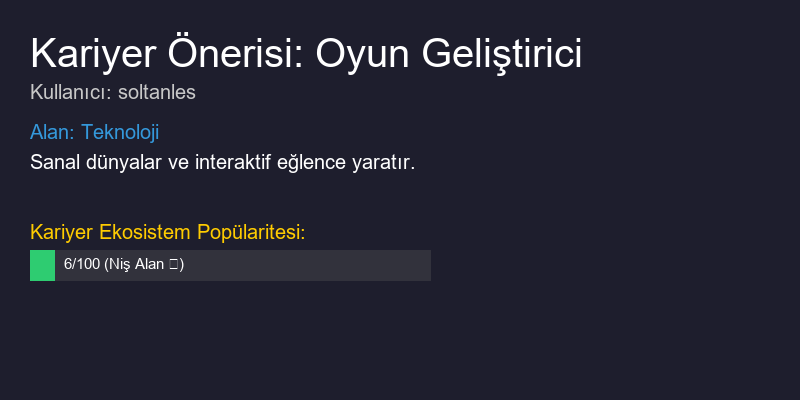
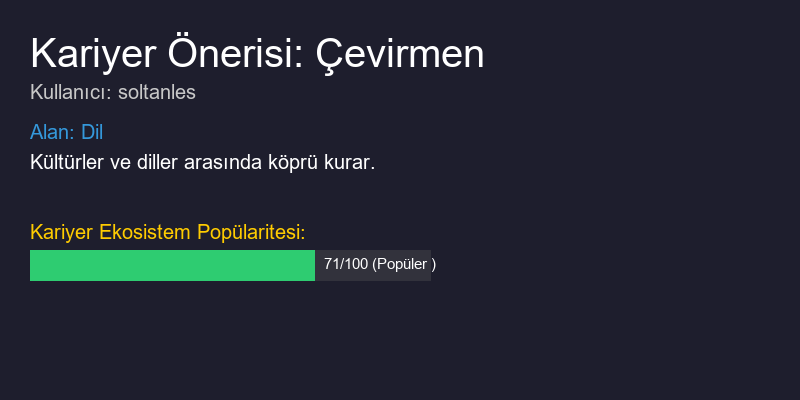
Undecive

diff --git a/modules/ui_components.py b/modules/ui_components.py
@@ -49,7 +49,7 @@ class CareerQuizView(View):
             progress = f"({self.current_step + 1}/{len(self.questions)})"
             
             btn_yes = Button(label="Evet", style=discord.ButtonStyle.green, custom_id="yes")
-            btn_maybe = Button(label="Kısmen", style=discord.ButtonStyle.secondary, custom_id="maybe")
+            btn_maybe = Button(label="🟡 Kısmen", style=discord.ButtonStyle.primary, custom_id="maybe")
             btn_no = Button(label="Hayır", style=discord.ButtonStyle.danger, custom_id="no")
             
             # Bu butonların ait olduğu adım (step)
@@ -100,24 +100,40 @@ class CareerQuizView(View):
         # 1. DB Güncelle (Normalize edilmiş puanlarla)
         self.db.update_user_scores(self.user_id, self.username, normalized_scores)
         
-        # 2. En iyi mesleği bul
+        # 2. En iyi 3 mesleği bul (yüzdelerle birlikte)
         careers = self.db.get_all_careers()
-        best_match = self.calculator.calculate_best_career(normalized_scores, careers)
+        from modules.calculator import calculate_top_careers
+        top_matches = calculate_top_careers(normalized_scores, careers, top_n=3)
+        
+        # En iyi eşleşme (rapor ve kart için)
+        best_match = top_matches[0]['career'] if top_matches else None
+        best_percentage = top_matches[0]['match_percentage'] if top_matches else 0
         
         # 3. Rapor oluştur
         report_path = self.reporter.generate_report(self.username, normalized_scores, best_match)
         
-        # 4. [YENİ] Görsel Kart Oluştur
+        # 4. Görsel Kart Oluştur
         from modules.visualizer import CareerVisualizer
         viz = CareerVisualizer()
         card_path = viz.create_career_card(self.username, best_match, normalized_scores)
         
         # 5. Sonuçları gönder
         embed = discord.Embed(title=f"🎉 Tebrikler {self.username}!", color=0x3498db)
-        embed.description = "Analiz tamamlandı! İşte sonuçların:"
+        embed.description = "Analiz tamamlandı! İşte sana en uygun 3 meslek:"
         
-        embed.add_field(name="Sana En Uygun Meslek", value=f"**{best_match['title']}**", inline=False)
-        embed.add_field(name="Tanım", value=best_match['description'], inline=False)
+        # Top 3 meslekleri göster
+        medals = ["🥇", "🥈", "🥉"]
+        top_careers_text = ""
+        for i, match in enumerate(top_matches):
+            career = match['career']
+            percentage = match['match_percentage']
+            medal = medals[i] if i < len(medals) else "•"
+            top_careers_text += f"{medal} **{career['title']}** - %{percentage} uyum\n"
+        
+        embed.add_field(name="📊 Kariyer Eşleşmelerin", value=top_careers_text, inline=False)
+        
+        # En iyi mesleğin detayı
+        embed.add_field(name=f"🎯 1. Tercih: {best_match['title']}", value=best_match['description'], inline=False)
         
         # Puanları da gösterelim
         scores_text = (
@@ -125,7 +141,7 @@ class CareerQuizView(View):
             f"**Sosyal:** {normalized_scores['sosyal']}/10\n"
             f"**Yaratıcılık:** {normalized_scores['yaraticilik']}/10"
         )
-        embed.add_field(name="Kişilik Analizin", value=scores_text, inline=False)
+        embed.add_field(name="🧠 Kişilik Analizin", value=scores_text, inline=False)
         
         embed.set_image(url=f"attachment://card_{self.username}.png")
         embed.set_footer(text="Detaylı rapor ve görsel analiz ekte! 👇")
@@ -135,3 +151,4 @@ class CareerQuizView(View):
         
         await interaction.followup.send(embed=embed, files=[file_report, file_card])
         self.stop()
+

diff --git a/modules/calculator.py b/modules/calculator.py
@@ -1,34 +1,62 @@
 import math
 
-def calculate_best_career(user_scores, all_careers):
-    """
-    Kullanıcı puanları ile meslek puanları arasındaki en yakın eşleşmeyi bulur.
-    Öklid mesafesi (Euclidean distance) yöntemi kullanılmıştır.
-    """
-    # user_scores: {'analitik': 5, 'sosyal': 3, 'yaraticilik': 8}
-    # all_careers: List of dicts from DB
-    
-    best_match = None
-    min_distance = float('inf')
-    
+def calculate_distance(user_scores, career):
+    """Kullanıcı ve meslek arasındaki Öklid mesafesini hesaplar."""
     u_a = user_scores.get('analitik', 0)
     u_s = user_scores.get('sosyal', 0)
     u_y = user_scores.get('yaraticilik', 0)
     
+    c_a = career['score_analitik']
+    c_s = career['score_sosyal']
+    c_y = career['score_yaraticilik']
+    
+    return math.sqrt(
+        (u_a - c_a) ** 2 +
+        (u_s - c_s) ** 2 +
+        (u_y - c_y) ** 2
+    )
+
+def distance_to_percentage(distance):
+    """
+    Mesafeyi yüzdeye çevirir.
+    Maksimum mesafe: sqrt(10^2 + 10^2 + 10^2) = sqrt(300) ≈ 17.32
+    """
+    max_distance = math.sqrt(300)  # 3 boyutta maksimum mesafe (0-10 ölçeğinde)
+    percentage = max(0, 100 - (distance / max_distance * 100))
+    return round(percentage)
+
+def calculate_best_career(user_scores, all_careers):
+    """
+    Kullanıcı puanları ile meslek puanları arasındaki en yakın eşleşmeyi bulur.
+    Geriye dönük uyumluluk için sadece en iyi eşleşmeyi döndürür.
+    """
+    top_matches = calculate_top_careers(user_scores, all_careers, top_n=1)
+    if top_matches:
+        return top_matches[0]['career']
+    return None
+
+def calculate_top_careers(user_scores, all_careers, top_n=3):
+    """
+    Kullanıcı puanları ile meslek puanları arasındaki en iyi N eşleşmeyi bulur.
+    Her eşleşme için uyumluluk yüzdesi hesaplar.
+    
+    Returns:
+        List of dicts: [{'career': career_dict, 'match_percentage': 85}, ...]
+    """
+    matches = []
+    
     for career in all_careers:
-        c_a = career['score_analitik']
-        c_s = career['score_sosyal']
-        c_y = career['score_yaraticilik']
+        distance = calculate_distance(user_scores, career)
+        percentage = distance_to_percentage(distance)
         
-        # 3 boyutlu uzayda mesafe hesapla
-        distance = math.sqrt(
-            (u_a - c_a) ** 2 +
-            (u_s - c_s) ** 2 +
-            (u_y - c_y) ** 2
-        )
-        
-        if distance < min_distance:
-            min_distance = distance
-            best_match = career
-            
-    return best_match
+        matches.append({
+            'career': career,
+            'match_percentage': percentage,
+            'distance': distance
+        })
+    
+    # Yüzdeye göre sırala (en yüksek önce)
+    matches.sort(key=lambda x: x['match_percentage'], reverse=True)
+    
+    # En iyi N tanesini döndür
+    return matches[:top_n]

diff --git a/modules/visualizer.py b/modules/visualizer.py
@@ -41,10 +41,10 @@ class CareerVisualizer:
             # Normalize: Assume 500+ items is "Very Popular" (100 pts)
             score = min(100, int((density / 500) * 100))
             
-            if score > 80: label = "Çok Popüler 🔥"
-            elif score > 50: label = "Popüler ⭐"
-            elif score > 20: label = "Gelişmekte 📈"
-            else: label = "Niş Alan 🎯"
+            if score > 80: label = "Çok Popüler "
+            elif score > 50: label = "Popüler "
+            elif score > 20: label = "Gelişmekte "
+            else: label = "Niş Alan "
             
             return score, label
 
